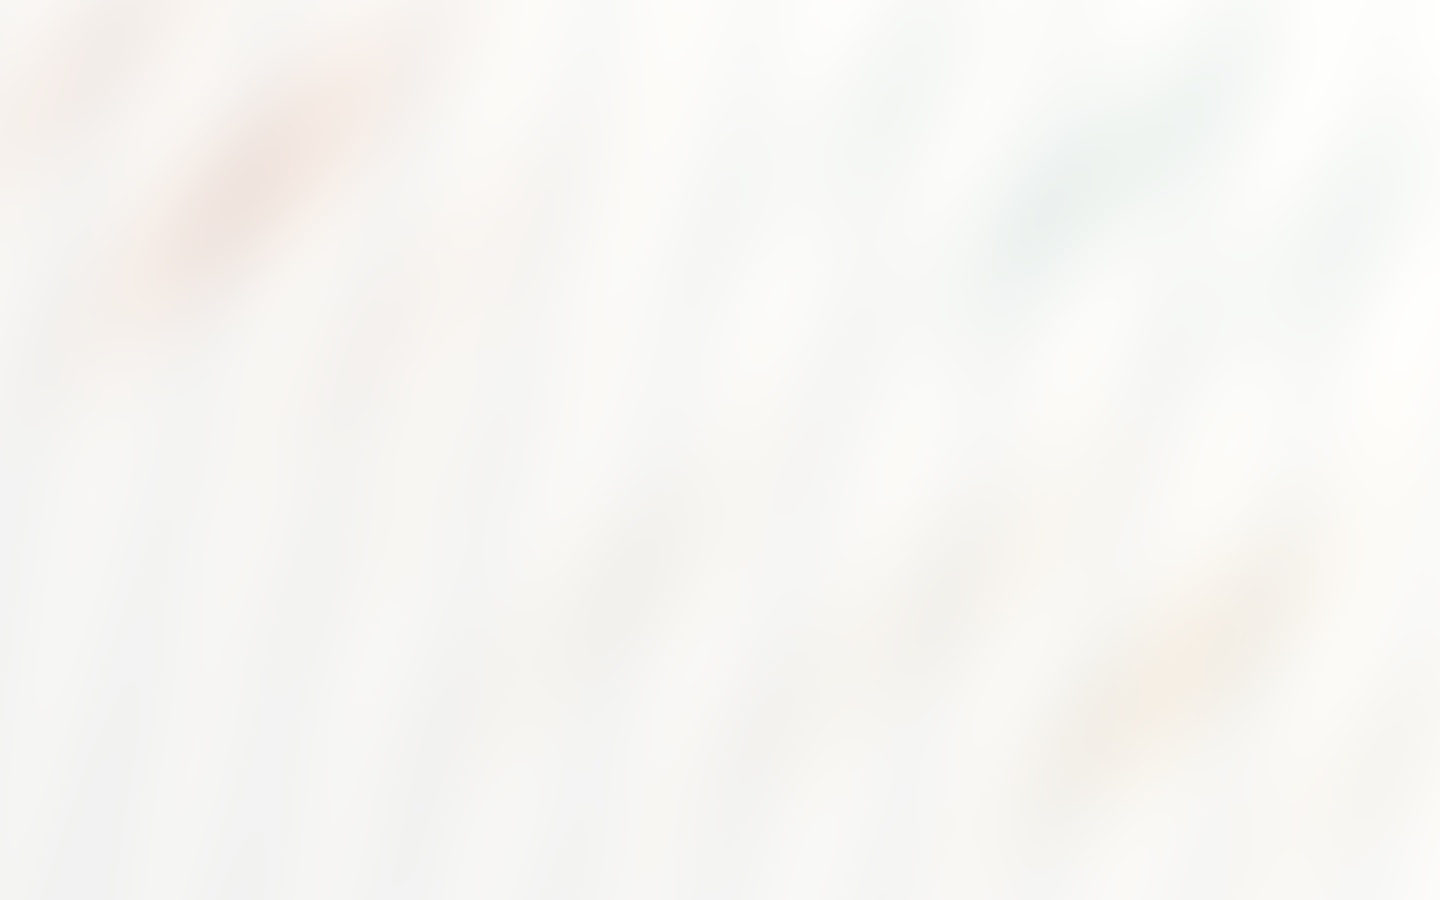
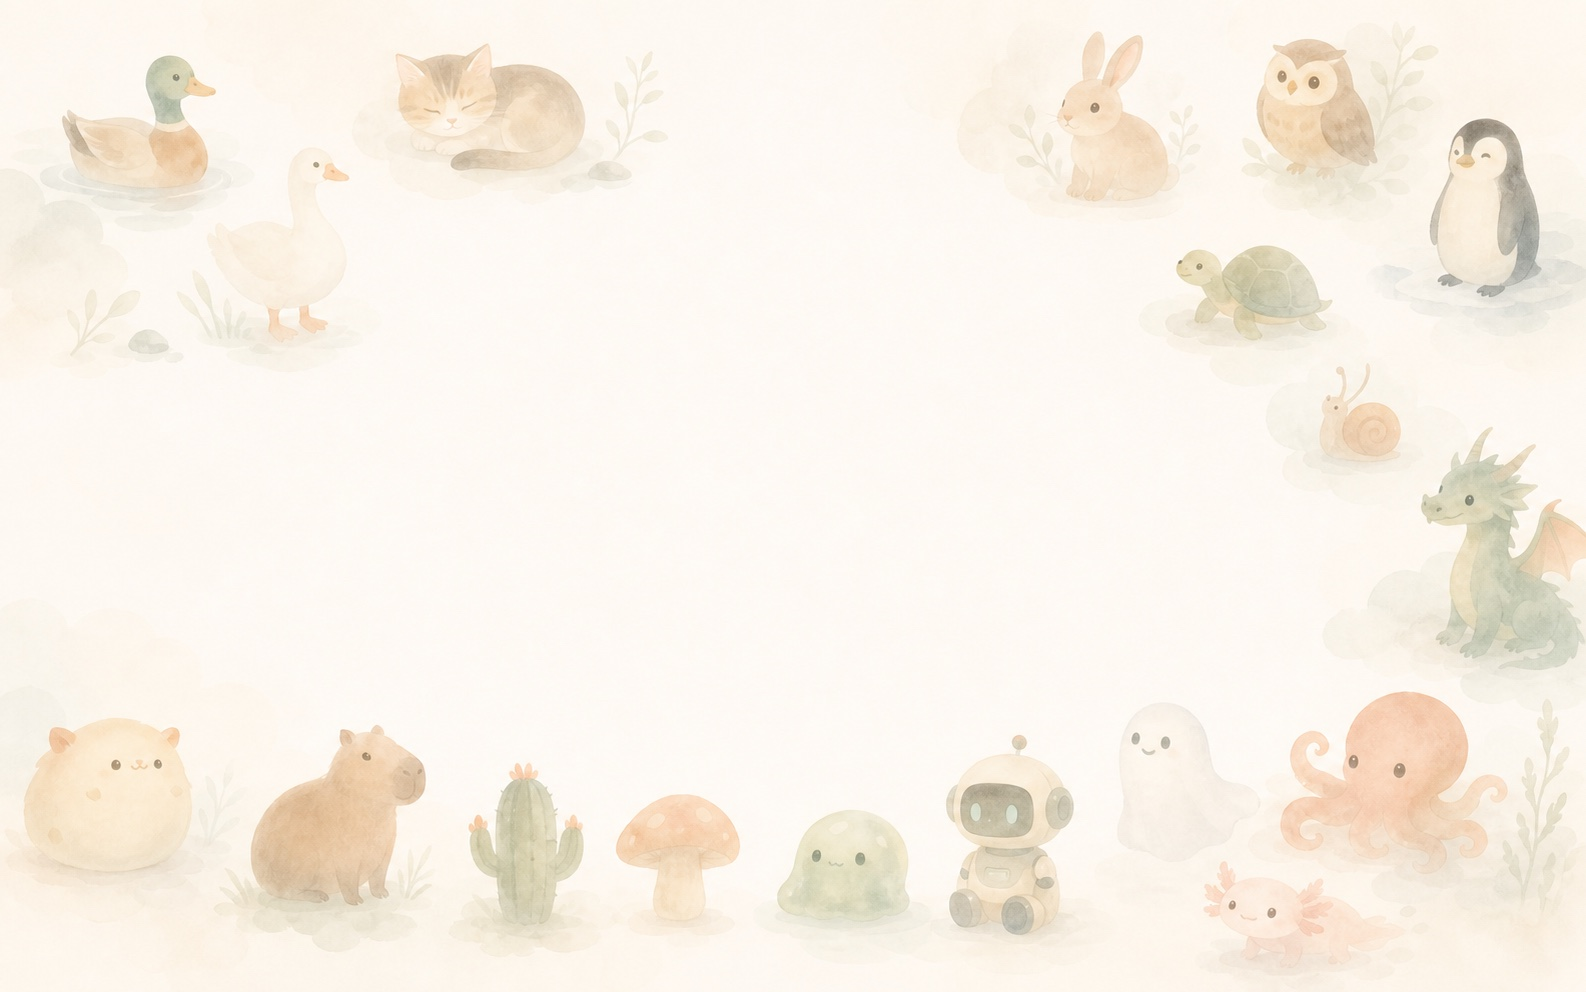
Use Buddy pet Warp backgrounds

diff --git a/README.md b/README.md
@@ -162,6 +162,9 @@ and are included as plain `.yaml` files with matching soft JPG backgrounds:
 - [`claude-warm-warp-light.yaml`](./claude-warm-warp-light.yaml)
 - [`claude-warm-warp-dark.yaml`](./claude-warm-warp-dark.yaml)
 
+The backgrounds are original soft illustrations inspired by Claude Code
+Buddy-style terminal pets. They are not official Anthropic assets.
+
 Install them on macOS:
 
 ```bash